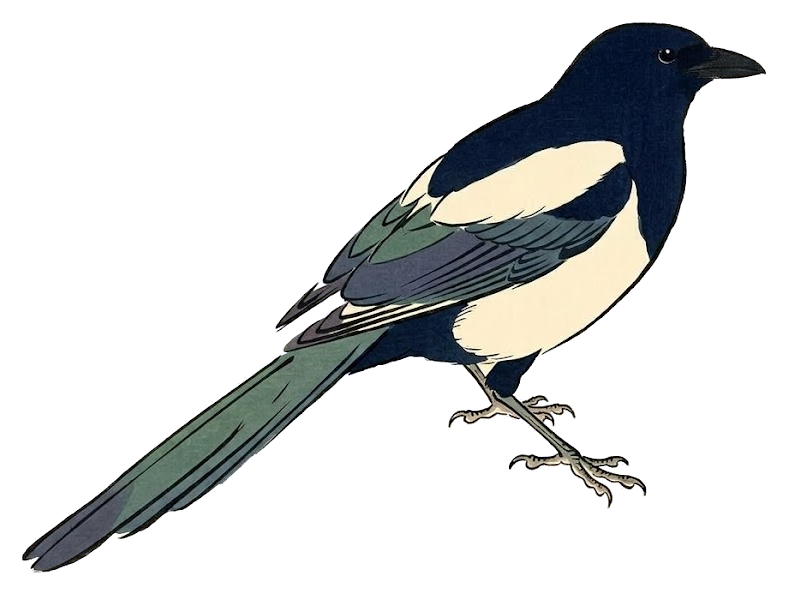
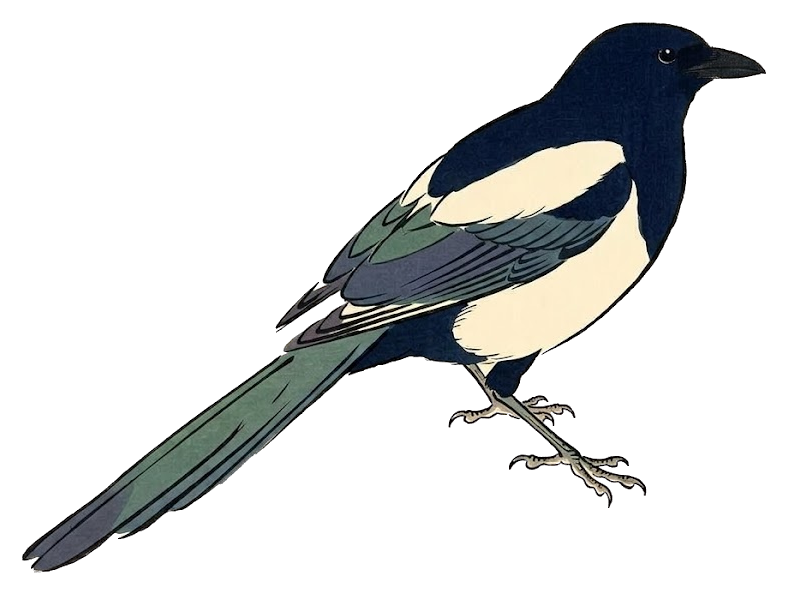
atlas: no pale rim on generated bird art in dark mode
The first soft matte compared each edge pixel with the average of the
interior nearby, which beside a thin ink outline is lighter than the
ink, so half-ink pixels stayed nearly opaque with their cream tint: a
faint rim, plain on the dark theme. The bird colour is now the most
un-paper-like pixel within 3 px (the ink), edge pixels take that colour
instead of a noisy unmix, and outside the silhouette faint matches are
dropped as paper grain (they showed as specks). The six new renders are
re-cut, with new ART_REVISIONS.

diff --git a/avian/frontend/apt.js b/avian/frontend/apt.js
@@ -14,14 +14,14 @@
   // with clean cutouts, so drop every cached copy.
   // Keep table and one-off art revisions separate from the library-wide
   // versions above. A corrected species should not evict every bird image.
-  var TABLE_VERSION = 'r15';
+  var TABLE_VERSION = 'r16';
   var ART_REVISIONS = {
     'aphelocoma-woodhouseii': 'anatomy-1',
     // 2026-10-11: first art for these three (Nano Banana 2, by hand);
     // -soft: re-cut with the soft edge matte.
-    'pica-hudsonia': 'nb2-1-soft',
-    'dryobates-scalaris': 'nb2-2-soft',
-    'toxostoma-curvirostre': 'nb2-1-soft'
+    'pica-hudsonia': 'nb2-1-soft2',
+    'dryobates-scalaris': 'nb2-2-soft2',
+    'toxostoma-curvirostre': 'nb2-1-soft2'
   };
   function artRevision(sci, fallback) {
     return ART_REVISIONS[slugify(String(sci || ''))] || fallback;

diff --git a/avian/frontend/index.html b/avian/frontend/index.html
@@ -399,6 +399,6 @@ var p=preference();d.setAttribute('data-theme',p==='light'||p==='dark'?p:systemT
 <script src="./stamp-batch-a.js?v=r341"></script>
   <script src="./stamp-batch-b.js?v=r318"></script>
 <script src="./stamp-batch-c.js?v=r235"></script>
-<script src="./apt.js?v=r303"></script>
+<script src="./apt.js?v=r304"></script>
 </body>
 </html>

diff --git a/avian/scripts/generate_one.py b/avian/scripts/generate_one.py
@@ -97,29 +97,43 @@ def _edge_matte(arr: np.ndarray, paper: np.ndarray, solid: np.ndarray,
                 noise: float) -> tuple[np.ndarray, np.ndarray]:
     """Soft alpha and paper-free colour in a thin band round the silhouette.
 
-    Each edge pixel is a mix of the bird colour just inside it (F, the
-    average of nearby interior pixels) and the paper (P); alpha is how far
-    it sits from P toward F, and its colour is unmixed from the paper.
-    Keeping those pixels opaque with their paper tint (the old feather)
-    traced a pale rim round every dark edge, which read as a jagged
-    outline on the site's lighter backgrounds. Where F is too close to the
-    paper to tell them apart (a pale throat on cream), the silhouette is
-    kept, lightly softened."""
+    Each edge pixel is a mix of the bird colour beside it (F) and the
+    paper (P); alpha is how far it sits from P toward F, and its colour is
+    F. F is the most un-paper-like bird pixel within 3 px, which on these
+    renders is the ink outline: an average of the interior is lighter, so
+    half-ink pixels came out nearly opaque with their paper tint and traced
+    a pale rim round every edge, plain on the dark theme. Where F is too
+    close to the paper to tell them apart (a pale throat on cream), the
+    silhouette is kept, lightly softened."""
     C = arr.astype(np.float64)
     P = np.asarray(paper, np.float64)
     inner = _morph(solid, 5, grow=False)
-    band = _morph(solid, 5, grow=True) & ~inner
-    weight = _box(inner.astype(np.float64), 4)
-    F = _box(C * inner[..., None], 4) / np.maximum(weight, 1e-6)[..., None]
+    band = _morph(solid, 3, grow=True) & ~inner
+    dist = np.sqrt(((C - P) ** 2).sum(2))
+    score = np.where(solid, dist, -1.0)
+    h, w = score.shape
+    r = 3
+    sp = np.pad(score, r, constant_values=-1.0)
+    cp = np.pad(C, [(r, r), (r, r), (0, 0)], mode="edge")
+    best = np.full((h, w), -1.0)
+    F = C.copy()
+    for dy in range(-r, r + 1):
+        for dx in range(-r, r + 1):
+            sc = sp[r + dy:r + dy + h, r + dx:r + dx + w]
+            take = sc > best
+            best = np.where(take, sc, best)
+            F[take] = cp[r + dy:r + dy + h, r + dx:r + dx + w][take]
     FP, CP = F - P, C - P
     fp2 = (FP ** 2).sum(2)
     a = np.clip((CP * FP).sum(2) / np.maximum(fp2, 1e-6), 0.0, 1.0)
-    weak = (fp2 < (3 * noise) ** 2) | (weight < 0.02)
+    weak = (fp2 < (3 * noise) ** 2) | (best < 0)
     a = np.where(weak, _box(solid.astype(np.float64), 1), a)
+    # Outside the silhouette, a faint match is paper grain, not bird.
+    a = np.where(~solid & (a < 0.25), 0.0, a)
     alpha = np.where(inner, 1.0, np.where(band, a, 0.0))
     out = C.copy()
-    m = band & (alpha > 0.05)
-    out[m] = np.clip(P + CP[m] / alpha[m][:, None], 0, 255)
+    m = band & ~weak
+    out[m] = F[m]
     return alpha, out.astype(np.uint8)
 
 
